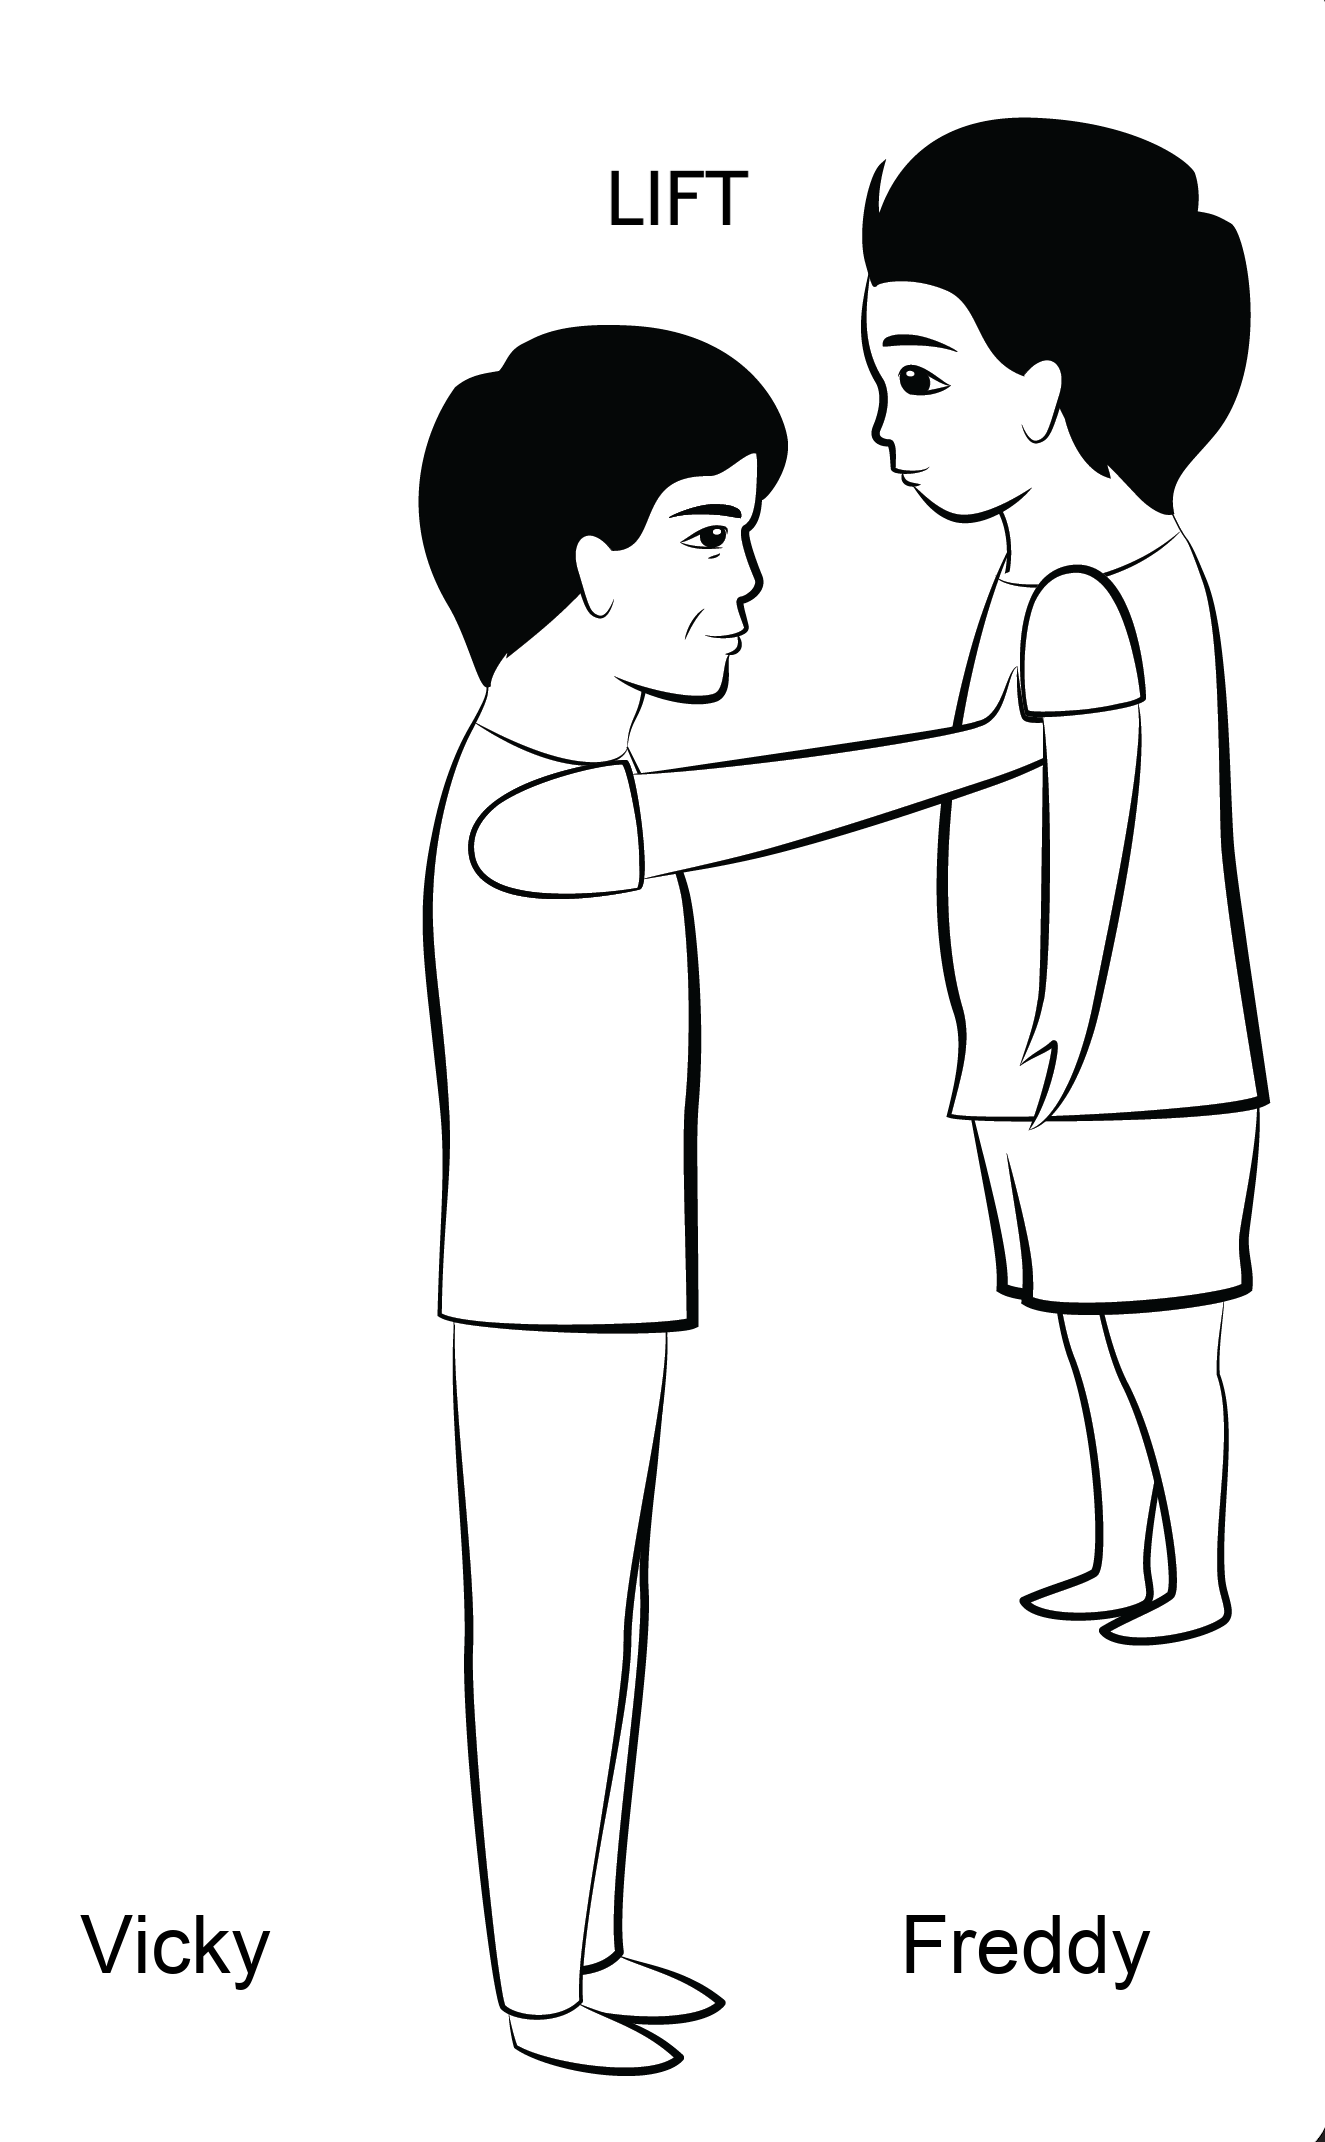
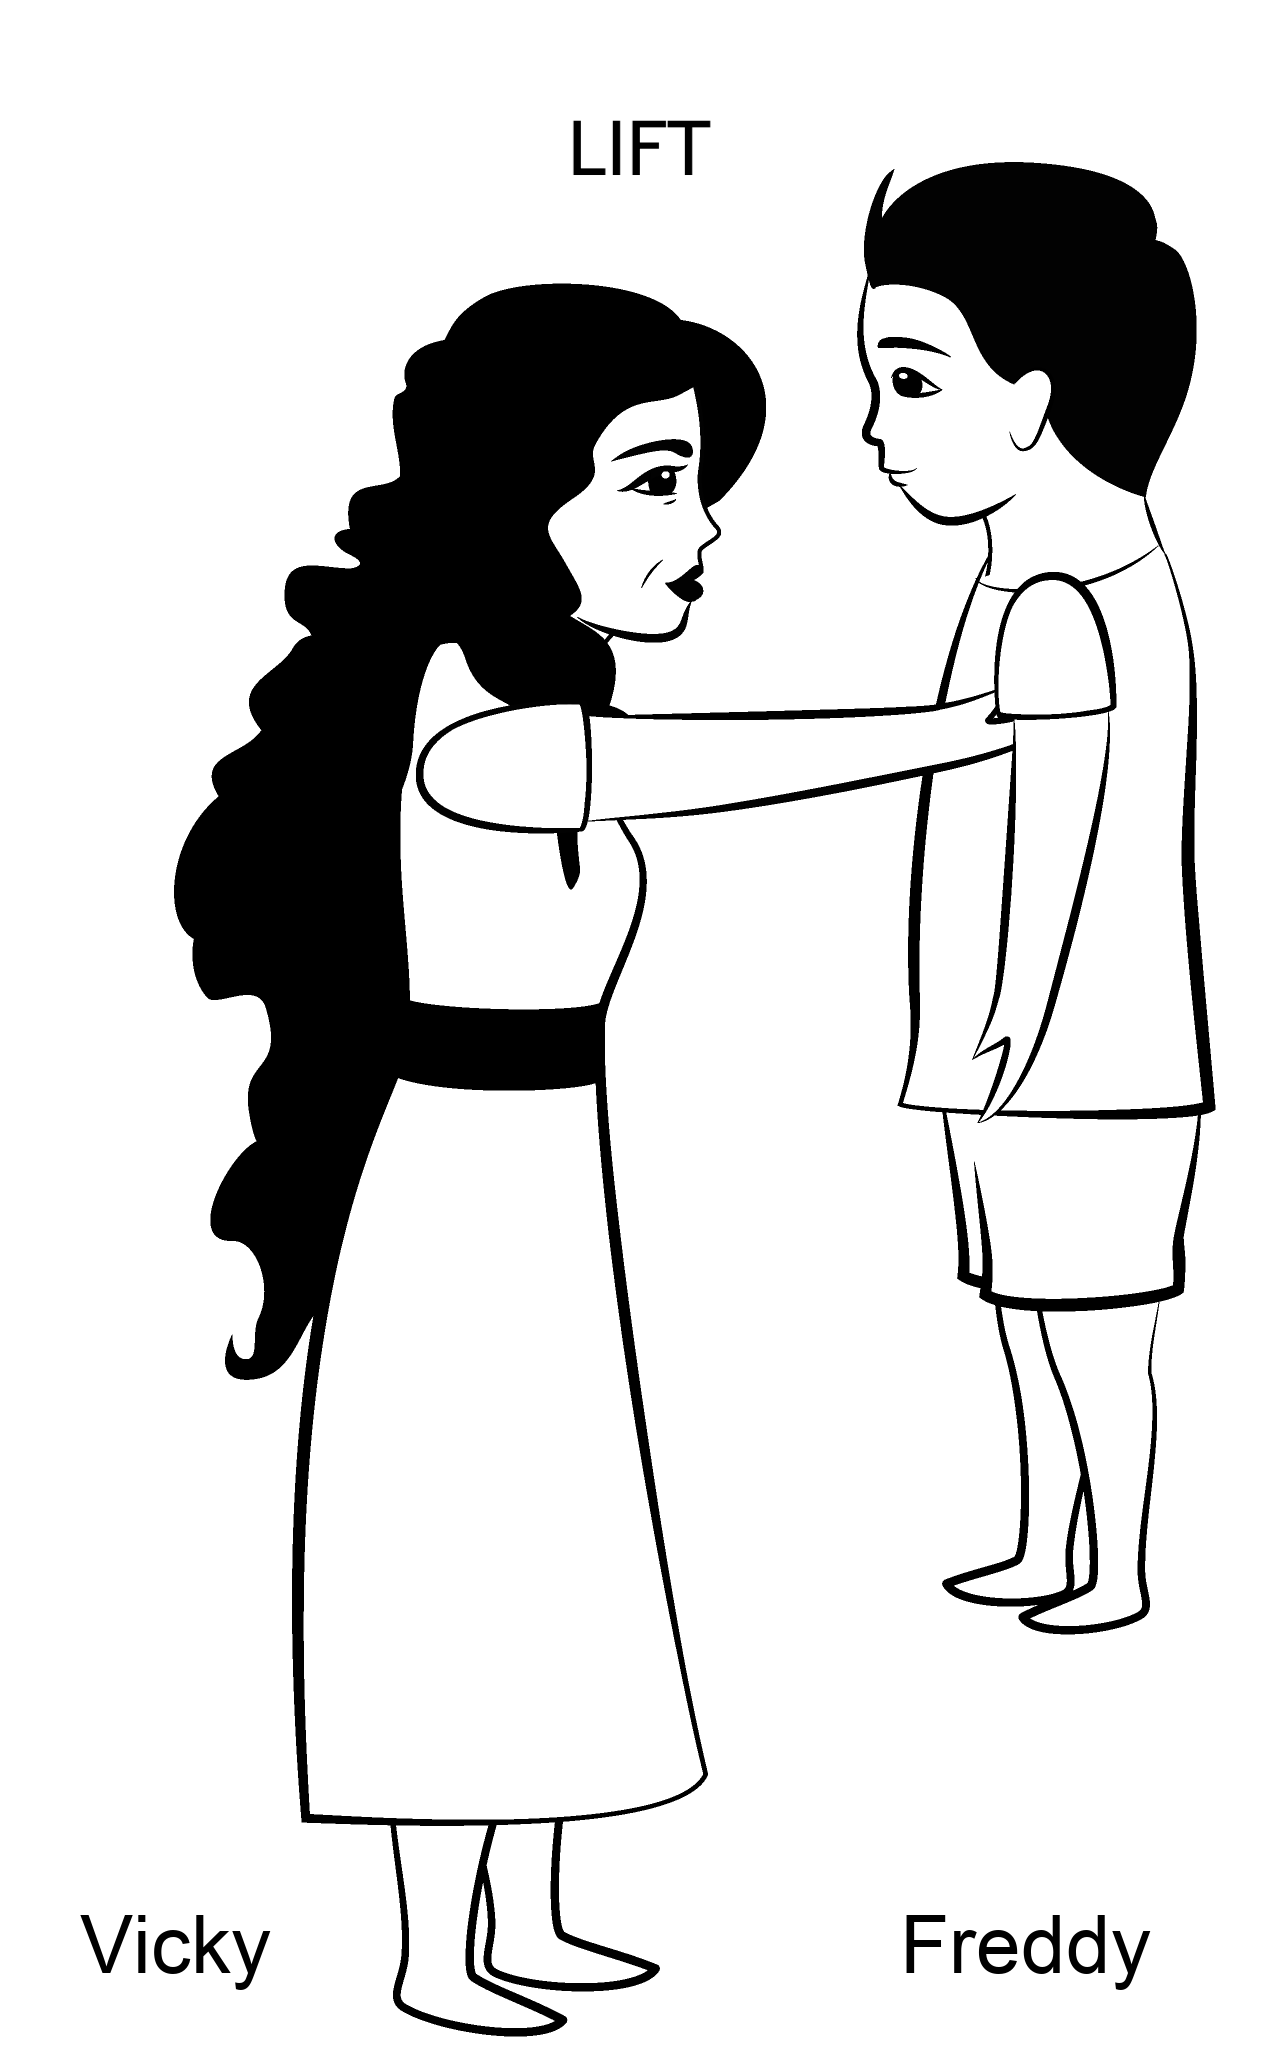
finally fixed the sex match thing for filler verb, holly crab

diff --git a/create_stimuli.py b/create_stimuli.py
@@ -12,9 +12,10 @@ def create_stimuli(bCreate_stimuli, iExp, locations, num_locations, exp_name, ex
     import glob
     import os
     import shutil
+    import copy
 
     np.random.seed(my_seed[0])
-    vanilla_dir = 'vanilla_images0'
+    vanilla_dir = 'vanilla_images1'
     output_dir = os.path.join(exp_name, 'images')
     if not os.path.isdir(exp_name):
         # print("I")
@@ -43,7 +44,7 @@ def create_stimuli(bCreate_stimuli, iExp, locations, num_locations, exp_name, ex
 
     sex_levels = ['F', 'M']
     num_sexes = len(sex_levels)
-    names = {'F': ["Nancy", "Vicky", "Tori", "Penny", "Jilly", "Cindy", "Laurie",
+    vanilla_names = {'F': ["Nancy", "Vicky", "Tori", "Penny", "Jilly", "Cindy", "Laurie",
 "Franny", "Brandy", "Betty", "Kylie", "Carrie", "Tracy", "Chloe",
 "Annie", "Mindy", "Molly", "Sally", "Lacey", "Carlie", "Mandy",
 "Hailey", "Lilly", "Jenny", "Judy", "Kerry", "Kelly", "Bonnie",
@@ -52,28 +53,32 @@ def create_stimuli(bCreate_stimuli, iExp, locations, num_locations, exp_name, ex
 "Harvey", "Gary", "Ollie", "Danny", "Henry", "Teddy", "Wally",
 "Johnny", "Jerry", "Timmy", "Benny", "Tommy", "Joey"
                    ]}
-             
-#             F: "Annie", "Betty", "Bonnie", "Brandy", "Carlie", "Carrie", "Chloe", 
-#"Cindy", "Franny", "Hailey", "Jenny", "Jilly", "Judy", "Kelly", 
-#"Kerry", "Kimmy", "Kylie", "Lacey", "Laurie", "Lilly", "Mandy", 
-#"Mindy", "Molly", "Nancy", "Penny", "Sally", "Tori", "Tracy", 
+     
+# names used in items will be removed to avoid repition in items        
+    names = copy.deepcopy(vanilla_names)
+     
+
+#             F: "Annie", "Betty", "Bonnie", "Brandy", "Carlie", "Carrie", "Chloe",
+#"Cindy", "Franny", "Hailey", "Jenny", "Jilly", "Judy", "Kelly",
+#"Kerry", "Kimmy", "Kylie", "Lacey", "Laurie", "Lilly", "Mandy",
+#"Mindy", "Molly", "Nancy", "Penny", "Sally", "Tori", "Tracy",
 #"Vicky"
-#             M: "Benny", "Danny", "Davey", "Freddy", "Gary", "Harvey", "Henry", 
-#"Jerry", "Jimmy", "Joey", "Johnny", "Kenny", "Ollie", "Percy", 
+#             M: "Benny", "Danny", "Davey", "Freddy", "Gary", "Harvey", "Henry",
+#"Jerry", "Jimmy", "Joey", "Johnny", "Kenny", "Ollie", "Percy",
 #"Ronnie", "Sammy", "Teddy", "Timmy", "Tommy", "Wally"
-             
-             
+
+
     #    a small pool to test the latter any trial with characters of the same name? test
     #    names = {'F': ["Annie", "Betty", "Bonnie", "Brandy", "Carlie", "Chloe", "Dolly", "Dory", "Franny", "Jenny", "Judy",
     #                   "Kelly"],
     #             'M': ["Andy", "Billy", "Cody", "Corey", "Danny", "Donny", "Eddie",
     #                   "Freddy", "GARY", "Harvey"]}
     #    ted thinks ambiguous or bad sandy, andy, dory, larry, rudy, tammy, willy, dolly, lindy, pammy, lonnie, morrie, randy, casey, terry, mary, merry
+    verb_cat = {'M_F_verbs': ["Kick", "Kiss", "Lift", "Pull", "Push", "Poke"],
+    'F_M_verbs' : ["Kick", "Kiss", "Lift", "Poke", "Push"],
+    'F_F_verbs' : ["Lift", "Poke", "Pull", "Push"],
+    'M_M_verbs' : ["Lift", "Poke", "Pull"]}
 
-    f_f_verbs = ["Lift", "Poke", "Pull", "Push"]
-    f_m_verbs = ["Kick", "Kiss", "Lift", "Poke", "Push"]
-    m_f_verbs = ["Kick", "Kiss", "Lift", "Pull", "Push", "Poke"]
-    m_m_verbs = ["Lift", "Poke", "Pull"]
     verbs = ["Kiss", "Kick", "Poke", "Lift", "Push", "Pull"]
     agent_sex_mapped_to_verb = ['F', 'F', 'F', 'M', 'M', 'F']
     patient_sex_mapped_to_verb = ['M', 'M', 'F', 'M', 'F', 'F']
@@ -193,8 +198,34 @@ def create_stimuli(bCreate_stimuli, iExp, locations, num_locations, exp_name, ex
     np.random.seed(my_seed[1])
     filler_wrong_verb = [verbs[np.random.randint(0, num_verbs)] for i in range(filler_num_trial_total)]
     # filler_correct_verb = [verbs[num_verbs - 1 - verbs.index(i)] for i in filler_wrong_verb]
-    filler_correct_verb = [verbs[(verbs.index(i) + np.random.randint(1, num_verbs)) % num_verbs] for i in
-                           filler_wrong_verb]
+
+
+    filler_correct_verb = []
+#    for iV in filler_wrong_verb:
+#        for iC in verb_cat.values():
+#            if iV in iC:
+#                break
+#        print(iV)
+#        print(iC)
+#        iNum_verbs = len(iC)
+#        correct_verb = iC[(iC.index(iV) + np.random.randint(1, iNum_verbs)) % iNum_verbs]
+#        print(correct_verb)
+##        filler_correct_verb.append(correct_verb)
+    for iV in filler_wrong_verb:
+        cur_cat = agent_sex_mapped_to_verb[verbs.index(iV)] + '_' + patient_sex_mapped_to_verb[verbs.index(iV)] + '_verbs'
+        iC = verb_cat[cur_cat]
+        print("new round")
+        print(iV)
+        print(cur_cat)
+        print(iC)
+        iNum_verbs = len(iC)
+        correct_verb = iC[(iC.index(iV) + np.random.randint(1, iNum_verbs)) % iNum_verbs]
+        print(correct_verb)
+        filler_correct_verb.append(correct_verb)
+    
+    
+#    filler_correct_verb = [verbs[(verbs.index(i) + np.random.randint(1, num_verbs)) % num_verbs] for i in
+#                           filler_wrong_verb]
     # to check should be all false
     # [filler_wrong_verb[i] == filler_correct_verb[i] for i in range(len(filler_wrong_verb))]
 
@@ -301,9 +332,9 @@ def create_stimuli(bCreate_stimuli, iExp, locations, num_locations, exp_name, ex
                 cur_name_pool.remove(iRow.agent_in_question)
             if iRow.agent_in_question in cur_name_pool:
                 cur_name_pool.remove(iRow.patient_in_question)
-            if iRow.location_condition == 'Agent':               
+            if iRow.location_condition == 'Agent':
                 tFiller.iloc[iTrial, :].agent_in_picture = cur_name_pool[np.random.randint(1, len(cur_name_pool))]
-            if iRow.location_condition == 'Patient':                
+            if iRow.location_condition == 'Patient':
                 tFiller.iloc[iTrial, :].patient_in_picture = cur_name_pool[np.random.randint(1, len(cur_name_pool))]
 
 
@@ -376,13 +407,22 @@ def create_stimuli(bCreate_stimuli, iExp, locations, num_locations, exp_name, ex
         width1 = 80
         width2 = 900
         height = 1900
-        color0 = (0, 0, 0, 0)
+#        color0 = (0, 0, 0, 0)
 
 
         # img.save('sample-out.png')
 
         for iTrial, iRow in tAll_trials.iterrows():
-            cur_vanilla = glob.glob(os.path.join(vanilla_dir, '*' + iRow.verb_in_picture + '*.png'))[0]
+            for iS, iNames in vanilla_names.items():
+                if iRow.agent_in_picture in iNames:
+                    agent_sex = iS
+                    break
+            for iS, iNames in vanilla_names.items():
+                if iRow.patient_in_picture in iNames:
+                    patient_sex = iS
+                    break          
+            print(agent_sex + '_' + iRow.verb_in_picture + '_' + patient_sex + '.png')
+            cur_vanilla = glob.glob(os.path.join(vanilla_dir, agent_sex + '_' + iRow.verb_in_picture + '_' + patient_sex + '.png'))[0]
             print(iTrial)
             # print(cur_vanilla)
             cur_img = Image.open(cur_vanilla)

diff --git a/create_exp.py b/create_exp.py
@@ -1,7 +1,9 @@
 # dput(sort(unique()))
 # Three navtive speaekers were asked to classifiy sex for these namees into Female (F), Male (M), and Ambiguous (A). For each name, if at least two people both chose F of M and the third one chose A, the name is put in the majority sex category, otherwise the name is discarded.
 
-# In order to have the filler questions being the same indepdent of the correction condition, the "wrong" list which is the question list is the same acroos exps' on control trials, the correct version is the same as the "wrong" version -- the "wrong" is actaully correct.
+# In order to have the filler questions being the same indepdent of the correction condition, the "wrong" list, or the question list, is the same acroos exps; the "correct" list was initilized to be different from the "wrong" on each trial and then adjusted to the same as "wrong" on control trials, in which the "wrong" is actaully correct.
+# This way of creating wrong instead of correct first -- how items were created -- can bd problematic because I don't have full sex combinations for each action and the sexes for question verbs may not match those of picture verbs. The solution is to choose verbs from the same sex category. 
+
 
 import numpy as np
 import pandas as pd
@@ -17,6 +19,7 @@ num_locations = len(locations)
 my_seed = [1, 1, 1, 5, 4] # the first four seeds are each for item, wrong filler verb, wrong filler agent, and wrong filler patient. again, "wrong". I lazily increment to the last until there is no repetition in the more yes, verison, and modifiy the more no version if there is still repetition.
 # the last one is for trial shuffling, I tried up to 4, 4 and 2 create one neighbouring repetition.
 
+#nth_exp = 0
 #for iExp in [3]:
 for iExp in range(len(exps_names)):
     exp_name = exps_names[iExp]
